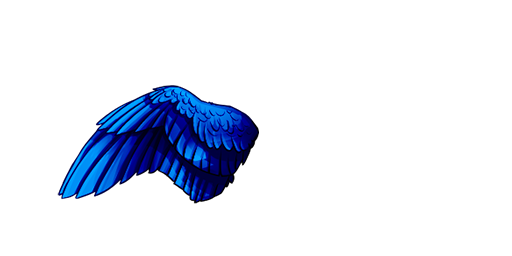
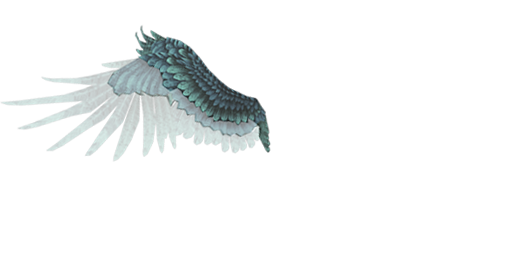
update neptune wing

Changed region(s): [[0.0, 0.0938, 0.5312, 0.8125]]

diff --git a/src/game/client/render.cpp b/src/game/client/render.cpp
@@ -812,7 +812,7 @@ void CRenderTools::RenderPicItems(CAnimState* pAnim, int RenderNum, vec2 Dir, ve
 					RenderWings(pAnim, IMAGE_WINGSIT19, vec2(130, 70), Position, 200, 90);
 					break;
 				case 20: // items wings
-					RenderWings(pAnim, IMAGE_WINGSIT20, vec2(115, 60), Position);
+					RenderWings(pAnim, IMAGE_WINGSIT20, vec2(120, 50), Position);
 					break;
 				case 21: // items wings
 					RenderWings(pAnim, IMAGE_WINGSIT21, vec2(115, 64), Position);
